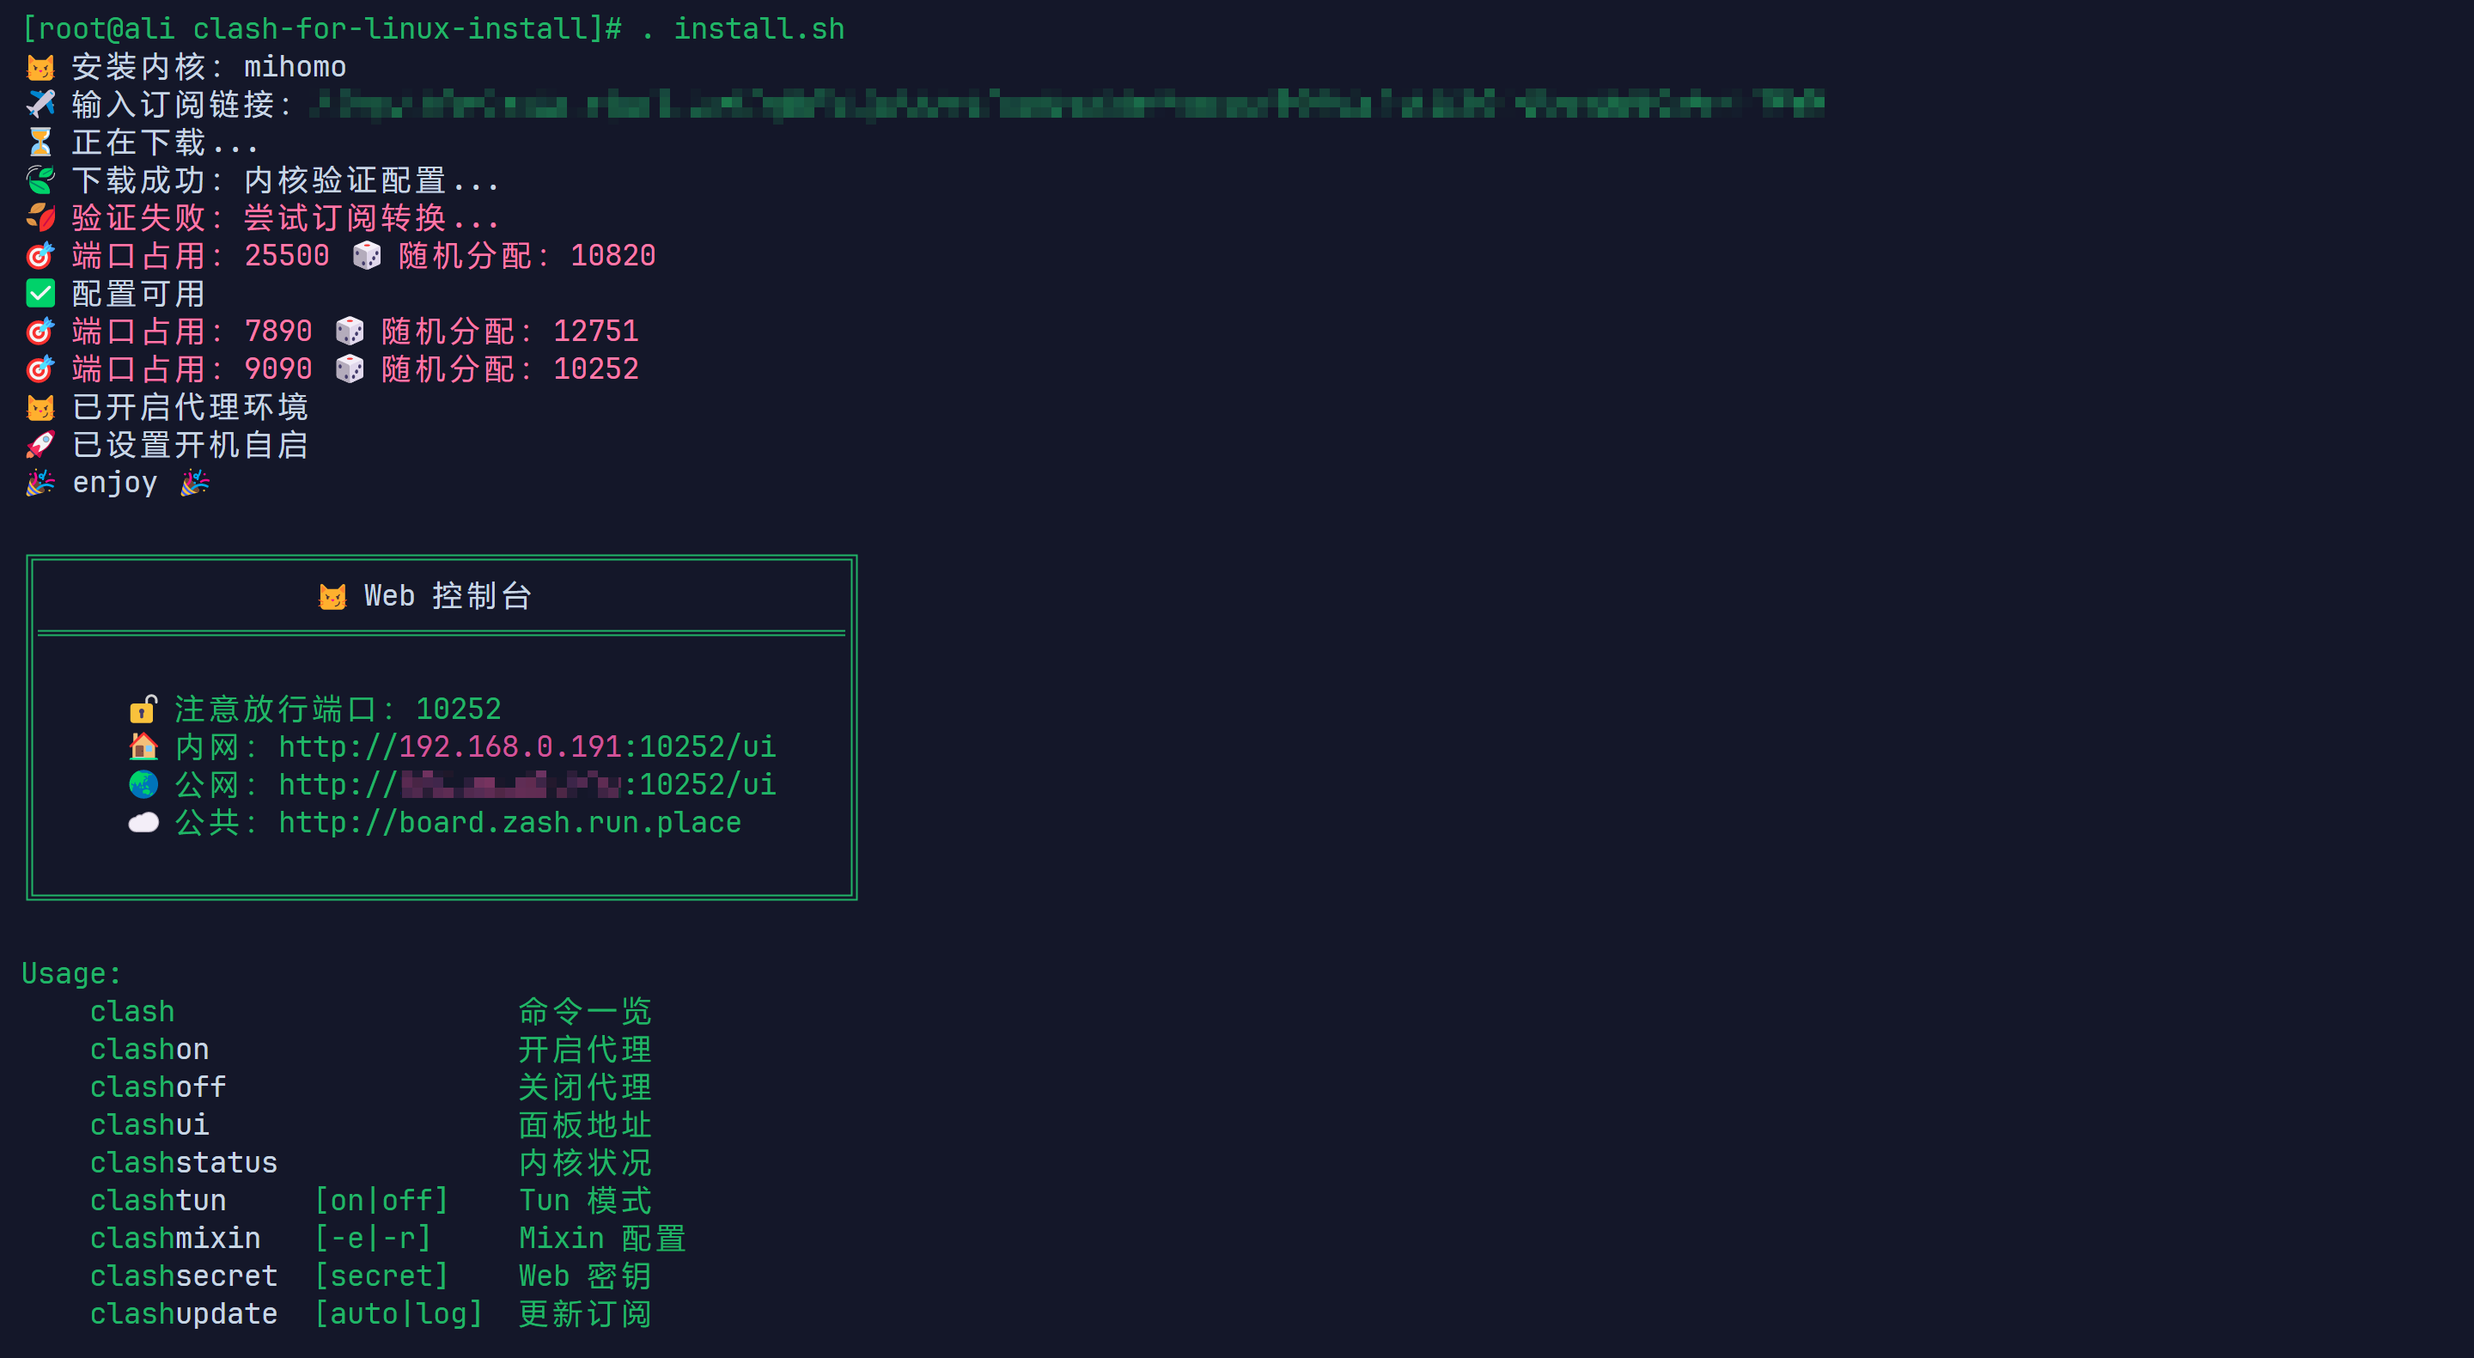
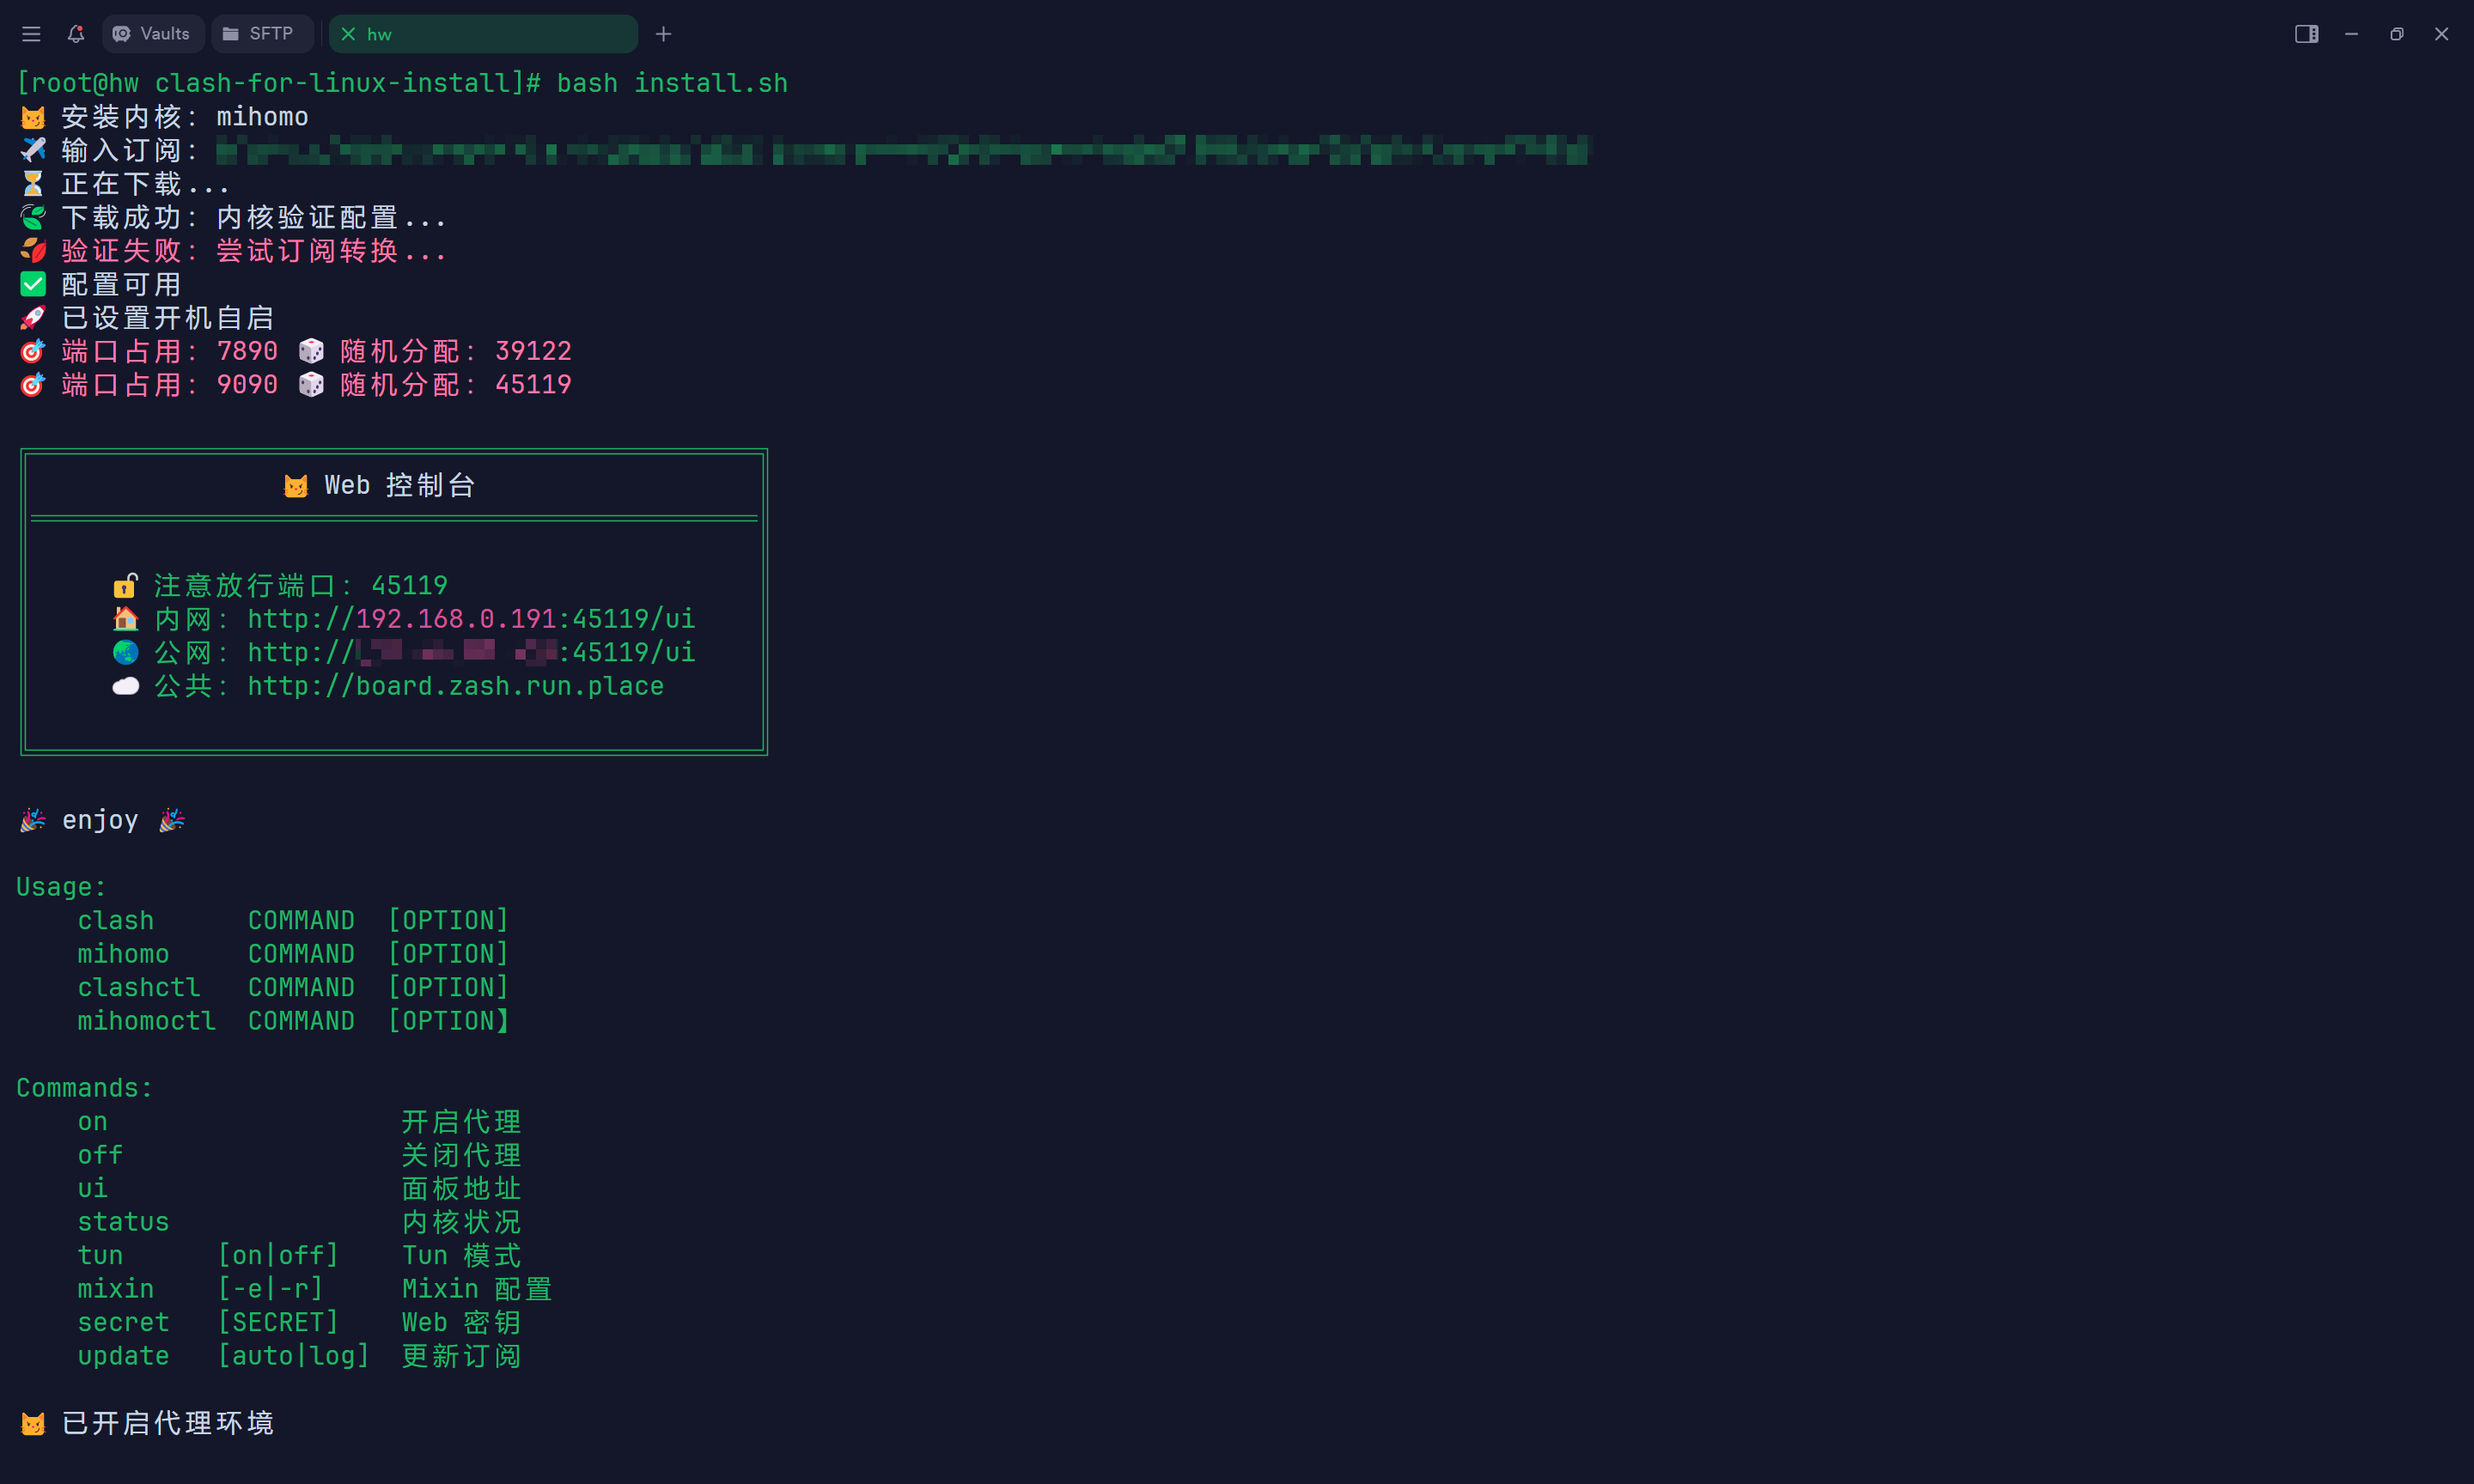
docs: update preview.

Changed region(s): [[0.0, 0.0, 0.75, 0.9918]]

diff --git a/README.md b/README.md
@@ -1,17 +1,21 @@
 # Linux 一键安装 Clash
 
+![GitHub License](https://img.shields.io/github/license/nelvko/clash-for-linux-install)
+![GitHub top language](https://img.shields.io/github/languages/top/nelvko/clash-for-linux-install)
+![GitHub Repo stars](https://img.shields.io/github/stars/nelvko/clash-for-linux-install)
+
 ![preview](resources/preview.png)
 
 - 默认安装 `mihomo` 内核，[可选安装](https://github.com/nelvko/clash-for-linux-install/wiki/FAQ#%E5%AE%89%E8%A3%85-clash-%E5%86%85%E6%A0%B8) `clash`。
-- 自动进行本地订阅转换。
+- 自动使用 [subconverter](https://github.com/tindy2013/subconverter) 进行本地订阅转换。
 - 多架构支持，适配主流 `Linux` 发行版：`CentOS 7.6`、`Debian 12`、`Ubuntu 24.04.1 LTS`。
 
 ## 快速开始
 
 ### 环境要求
 
-- 需要 `root` 或 `sudo` 权限。
-- 具备 `bash` 和 `systemd` 的系统环境。
+- 用户权限：`root`、`sudo`。（无权限可参考：[#91](https://github.com/nelvko/clash-for-linux-install/issues/91)）
+- `shell` 支持：`bash`、`zsh`。
 
 ### 一键安装
 
@@ -20,32 +24,38 @@
 ```bash
 git clone --branch master --depth 1 https://gh-proxy.com/https://github.com/nelvko/clash-for-linux-install.git \
   && cd clash-for-linux-install \
-  && sudo bash -c '. install.sh; exec bash'
+  && sudo bash install.sh
 ```
 
 > 如遇问题，请在查阅[常见问题](https://github.com/nelvko/clash-for-linux-install/wiki/FAQ)及 [issue](https://github.com/nelvko/clash-for-linux-install/issues?q=is%3Aissue) 未果后进行反馈。
 
 - 上述克隆命令使用了[加速前缀](https://gh-proxy.com/)，如失效请更换其他[可用链接](https://ghproxy.link/)。
-- 默认通过远程订阅获取配置进行安装，本地配置安装详见：[issue#39](https://github.com/nelvko/clash-for-linux-install/issues/39)
+- 默认通过远程订阅获取配置进行安装，本地配置安装详见：[#39](https://github.com/nelvko/clash-for-linux-install/issues/39)
 - 没有订阅？[click me](https://次元.net/auth/register?code=oUbI)
-- 验证是否连通外网：`wget www.google.com`
 
 ### 命令一览
 
 执行 `clash` 列出开箱即用的快捷命令。
 
+> 兼容多种风格
+
 ```bash
 $ clash
 Usage:
-    clash                    命令一览
-    clashon                  开启代理
-    clashoff                 关闭代理
-    clashui                  面板地址
-    clashstatus              内核状况
-    clashtun     [on|off]    Tun 模式
-    clashmixin   [-e|-r]     Mixin 配置
-    clashsecret  [secret]    Web 密钥
-    clashupdate  [auto|log]  更新订阅
+    clash     COMMAND [OPTION]
+    mihomo    COMMAND [OPTION]
+    clashctl  COMMAND [OPTION]
+    mihomoctl COMMAND [OPTION]
+
+Commands:
+    on                   开启代理
+    off                  关闭代理
+    ui                   面板地址
+    status               内核状况
+    tun      [on|off]    Tun 模式
+    mixin    [-e|-r]     Mixin 配置
+    secret   [SECRET]    Web 密钥
+    update   [auto|log]  更新订阅
 ```
 
 ### 优雅启停
@@ -128,13 +138,13 @@ $ clashtun on
 
 ```bash
 $ clashmixin
-😼 查看 mixin 配置（less）
+😼 less 查看 mixin 配置
 
 $ clashmixin -e
-😼 编辑 mixin 配置（vim）
+😼 vim 编辑 mixin 配置
 
 $ clashmixin -r
-😼 查看 运行时 配置（less）
+😼 less 查看 运行时 配置
 ```
 
 - 作用：用来存储自定义配置，防止更新订阅后覆盖丢失自定义配置内容。
@@ -143,10 +153,8 @@ $ clashmixin -r
 
 ### 卸载
 
-以下为通用命令，`root` 用户可直接使用： `. uninstall.sh`。
-
 ```bash
-sudo bash -c '. uninstall.sh; exec bash'
+sudo bash uninstall.sh
 ```
 
 ## 常见问题
